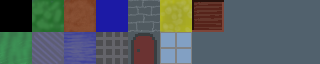
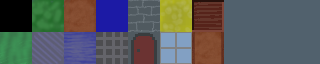
extended sample map; added bridge tile

Changed region(s): [[0.5938, 0.5, 0.7188, 1.0]]

diff --git a/src/render/map.rs b/src/render/map.rs
@@ -1,7 +1,7 @@
 use crate::world::World;
 use crate::point::{Point, Rectangle, PointSet};
 use crate::render::Tileset;
-use crate::terrain::{Terrain, TerrainKind, TerrainFeature};
+use crate::terrain::{Terrain, TerrainKind, TerrainFeature, Orientation};
 use crate::item::{Item, ItemKind};
 
 use macroquad::prelude::*;
@@ -151,6 +151,8 @@ impl TerrainRenderer {
             // Grate => 13,
             TerrainKind::Door(_) => 14,
             TerrainKind::Window => 15,
+            TerrainKind::Bridge(Orientation::Vertical) => 16,
+            TerrainKind::Bridge(Orientation::Horizontal) => 17, // TODO
             _ => 0,
         }
     }

diff --git a/src/terrain.rs b/src/terrain.rs
@@ -69,8 +69,13 @@ pub enum TerrainKind {
     Window,
     StoneFloor,
     Path,
-    Door(DoorState)
+    Door(DoorState),
+    Bridge(Orientation)
 }
+
+
+#[derive(Debug, Clone)]
+pub enum Orientation { Horizontal, Vertical }
 
 #[allow(dead_code)]
 #[derive(Debug, Clone)]
@@ -103,6 +108,8 @@ where P: AsRef<std::path::Path>
         '~' => TerrainKind::ShallowWater, //8,
         'D' => TerrainKind::Door(DoorState::Open), //10,
         '+' => TerrainKind::Window, //11,
+        'B' => TerrainKind::Bridge(Orientation::Vertical),
+        'b' => TerrainKind::Bridge(Orientation::Horizontal),
     };
 
     let mut x = 0;
